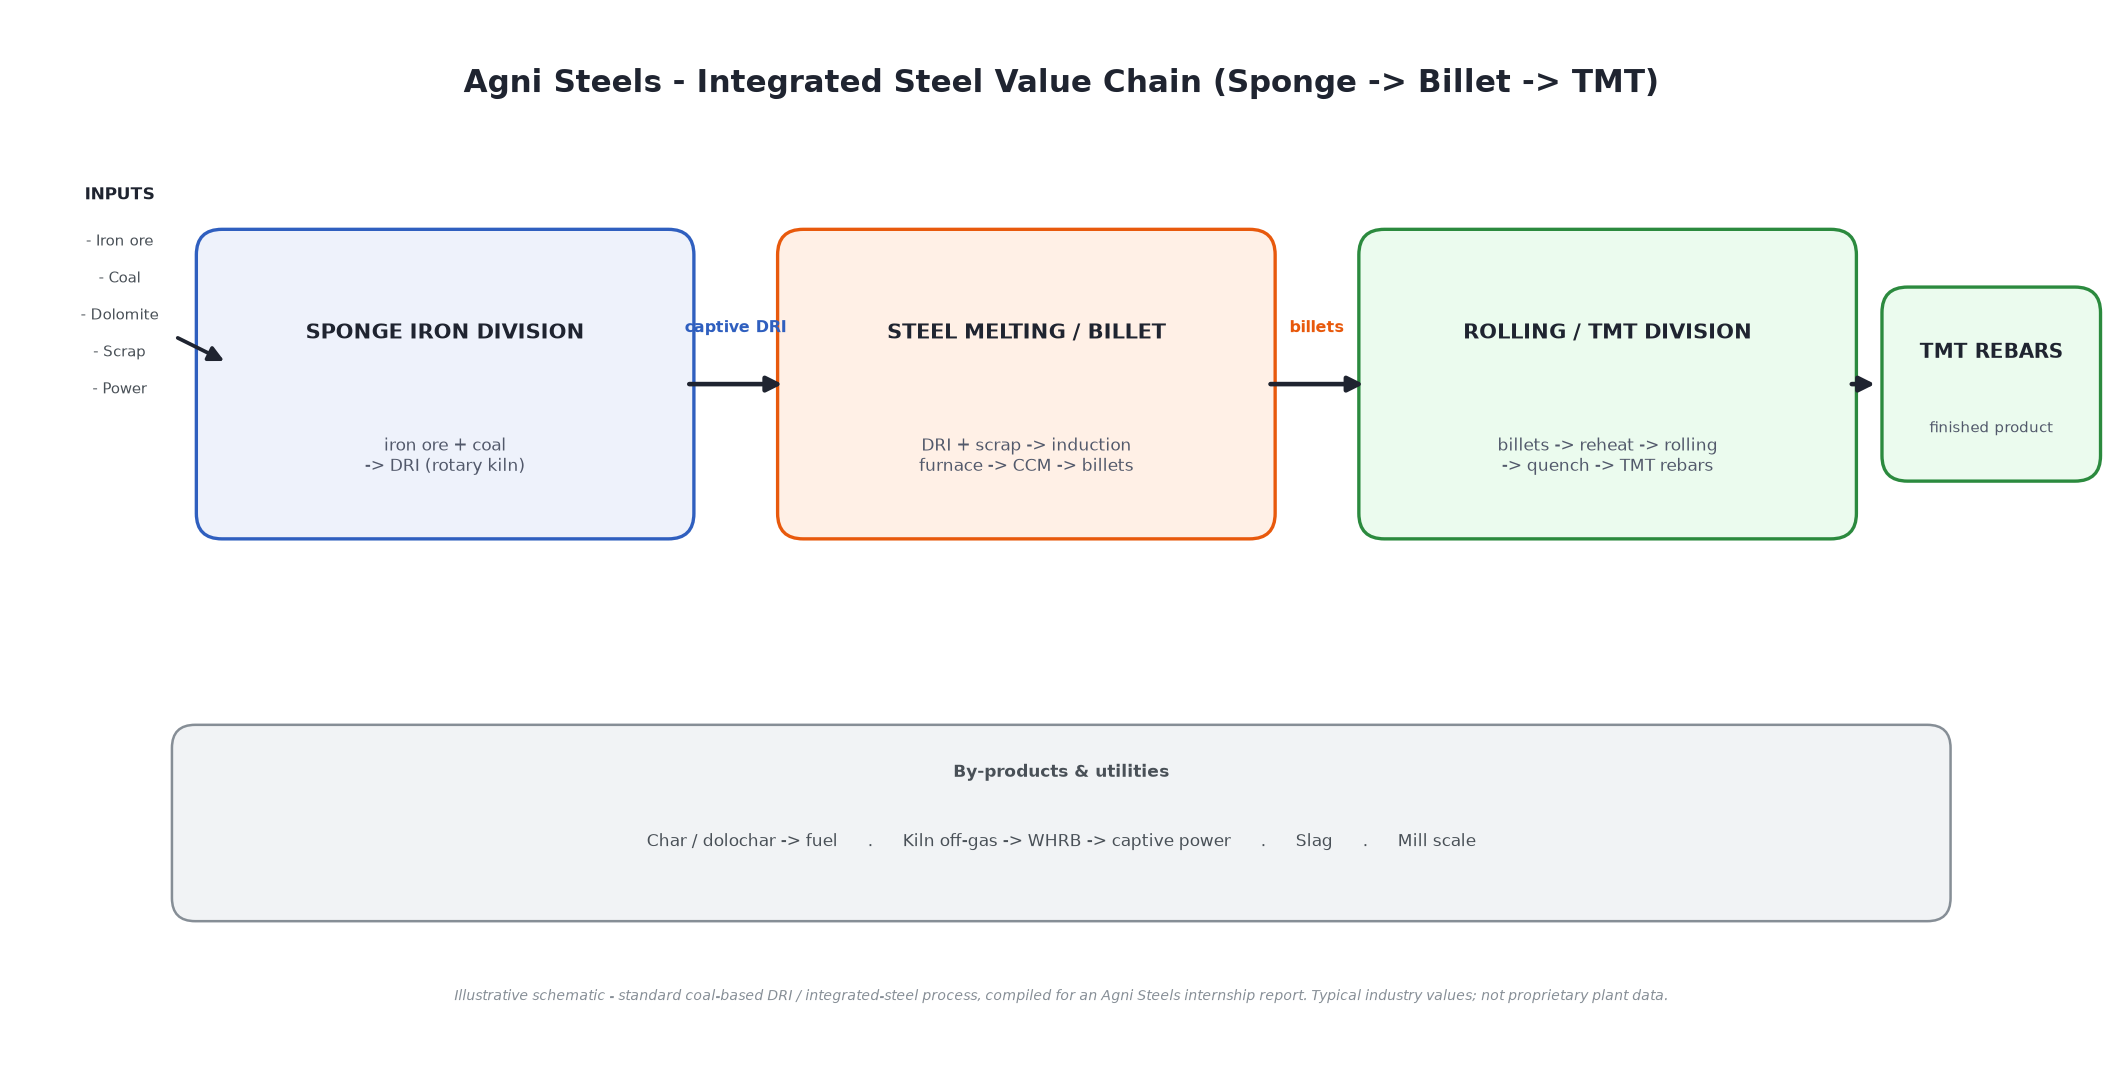
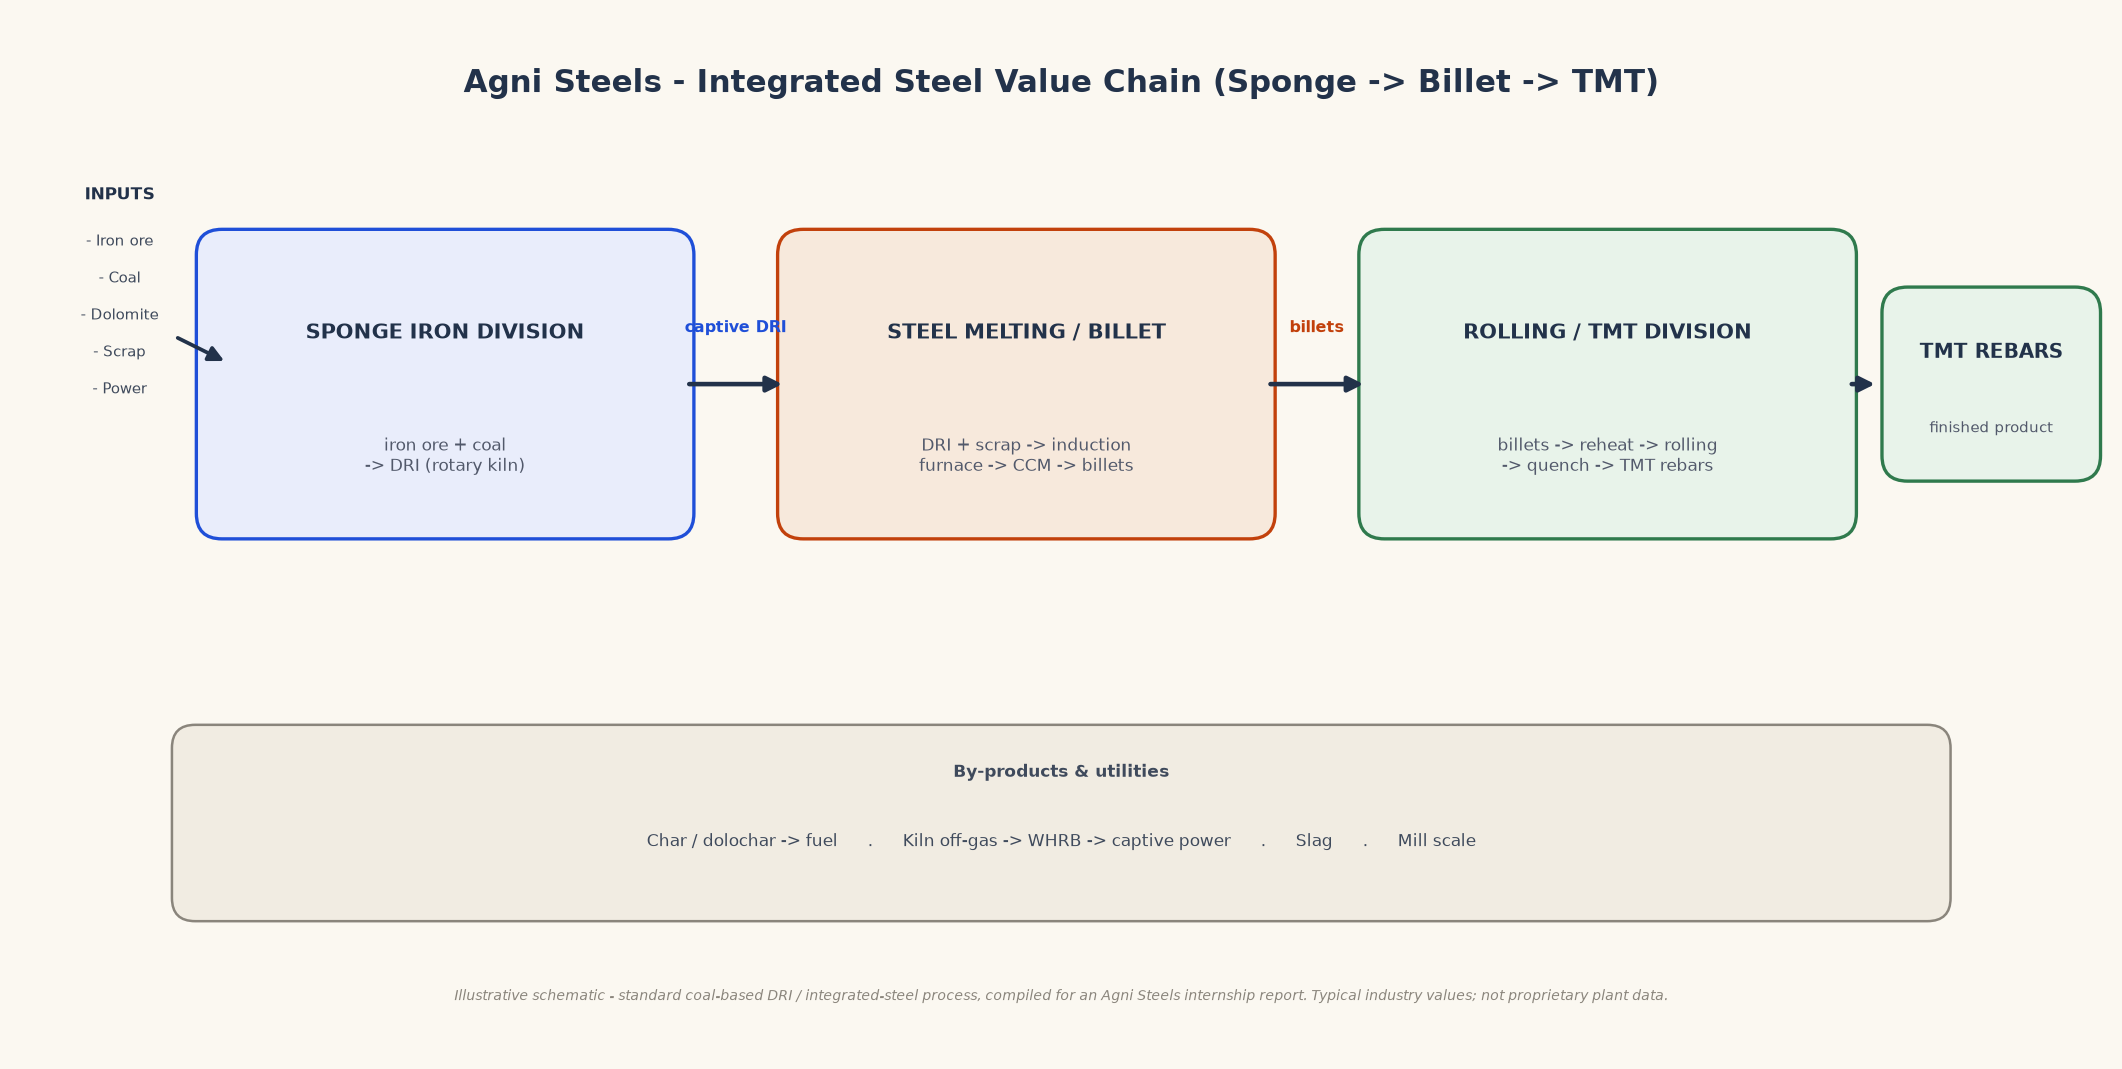
Agni pages: full-width legible diagrams, branded styling, more stills
- project-03: move the rotary-kiln schematic and integrated value-chain
  diagrams out of the half-width grid to full-width so their labels are
  readable; keep the photos (pellets, conveyor, kiln aerial) in a grid.
  Swap the dark conveyor still for a clearer cropped one; add a rotary-
  kiln aerial and the plant-layout diagram.
- project-14: enlarge the Sponge process map to full-width and add the
  cropped conveyor still.
- Diagrams restyled to the Daybook-v3 palette (butter + ultramarine) so
  they blend into the page cards instead of sitting in white boxes.
- figures/: branded sponge process map, integrated flow, kiln schematic;
  new plant-layout diagram and rotary-kiln aerial; cropped conveyor still.

Diagrams are illustrative schematics; stills are real Agni Sponge-video
footage. Sponge division only.

diff --git a/project-03.html b/project-03.html
@@ -139,26 +139,37 @@
       <p class="section-desc" style="margin-bottom: var(--space-xl)">Process-map diagrams I prepared for the report (illustrative schematics), alongside stills from Agni Steels' own process videos and a photo of the finished product.</p>
 
       <figure style="margin:0 0 var(--space-xl); background:var(--color-paper-2,#fbfaf6); border:1px solid rgba(0,0,0,.08); border-radius:14px; padding:18px">
-        <img src="figures/agni_sponge_process_map.png" alt="Sponge Iron division process map" loading="lazy" style="display:block; width:100%; height:auto; border-radius:6px" />
+        <img src="figures/agni_sponge_process_map.png" alt="Sponge Iron division process map" style="display:block; width:100%; height:auto; border-radius:6px" />
         <figcaption style="font-family:var(--font-mono); font-size:var(--text-sm); color:var(--color-ink-3); margin-top:12px">Process map of the Sponge Iron (DRI) division — raw materials → rotary kiln → cooler → magnetic separation → sponge iron, with the off-gas / utilities branch. Illustrative schematic.</figcaption>
       </figure>
 
-      <div style="display:grid; grid-template-columns:repeat(auto-fit,minmax(280px,1fr)); gap:var(--space-lg)">
+      <figure style="margin:0 0 var(--space-xl); background:var(--color-paper-2,#fbfaf6); border:1px solid rgba(0,0,0,.08); border-radius:14px; padding:18px">
+        <img src="figures/agni_plant_layout.png" alt="Sponge Iron division plant layout" style="display:block; width:100%; height:auto; border-radius:6px" />
+        <figcaption style="font-family:var(--font-mono); font-size:var(--text-sm); color:var(--color-ink-3); margin-top:12px">Schematic plant layout of the Sponge Iron division — raw-material yard → kiln → cooler → product storage, with the off-gas / APC branch and control room. Illustrative.</figcaption>
+      </figure>
+
+      <figure style="margin:0 0 var(--space-xl); background:var(--color-paper-2,#fbfaf6); border:1px solid rgba(0,0,0,.08); border-radius:14px; padding:18px">
+        <img src="figures/agni_kiln_schematic.png" alt="Rotary kiln longitudinal schematic" style="display:block; width:100%; height:auto; border-radius:6px" />
+        <figcaption style="font-family:var(--font-mono); font-size:var(--text-sm); color:var(--color-ink-3); margin-top:12px">Rotary kiln in longitudinal section — temperature zones, counter-current gas, reduction chemistry, and the accretion-prone band. Illustrative.</figcaption>
+      </figure>
+
+      <figure style="margin:0 0 var(--space-xl); background:var(--color-paper-2,#fbfaf6); border:1px solid rgba(0,0,0,.08); border-radius:14px; padding:18px">
+        <img src="figures/agni_integrated_plant_flow.png" alt="Integrated steel value chain" style="display:block; width:100%; height:auto; border-radius:6px" />
+        <figcaption style="font-family:var(--font-mono); font-size:var(--text-sm); color:var(--color-ink-3); margin-top:12px">Integrated value chain — Sponge (DRI) → Billet → TMT. The sponge unit feeds the captive steel-melting and rolling lines. Illustrative.</figcaption>
+      </figure>
+
+      <div style="display:grid; grid-template-columns:repeat(auto-fit,minmax(240px,1fr)); gap:var(--space-lg)">
         <figure style="margin:0; background:var(--color-paper-2,#fbfaf6); border:1px solid rgba(0,0,0,.08); border-radius:14px; padding:16px">
-          <img src="figures/agni_kiln_schematic.png" alt="Rotary kiln longitudinal schematic" loading="lazy" style="display:block; width:100%; height:auto; border-radius:6px" />
-          <figcaption style="font-family:var(--font-mono); font-size:var(--text-sm); color:var(--color-ink-3); margin-top:10px">Rotary kiln in longitudinal section — temperature zones, counter-current gas, reduction chemistry, and the accretion-prone band. Illustrative.</figcaption>
-        </figure>
-        <figure style="margin:0; background:var(--color-paper-2,#fbfaf6); border:1px solid rgba(0,0,0,.08); border-radius:14px; padding:16px">
-          <img src="figures/agni_integrated_plant_flow.png" alt="Integrated steel value chain" loading="lazy" style="display:block; width:100%; height:auto; border-radius:6px" />
-          <figcaption style="font-family:var(--font-mono); font-size:var(--text-sm); color:var(--color-ink-3); margin-top:10px">Integrated value chain — Sponge (DRI) → Billet → TMT. The sponge unit feeds the captive steel-melting and rolling lines. Illustrative.</figcaption>
-        </figure>
-        <figure style="margin:0; background:var(--color-paper-2,#fbfaf6); border:1px solid rgba(0,0,0,.08); border-radius:14px; padding:16px">
-          <img src="figures/agni_dri_pellets.png" alt="Sponge iron / DRI pellets" loading="lazy" style="display:block; width:100%; height:auto; border-radius:6px" />
+          <img src="figures/agni_dri_pellets.png" alt="Sponge iron / DRI pellets" style="display:block; width:100%; height:auto; border-radius:6px" />
           <figcaption style="font-family:var(--font-mono); font-size:var(--text-sm); color:var(--color-ink-3); margin-top:10px">The product — coal-based sponge iron (DRI) pellets.</figcaption>
         </figure>
         <figure style="margin:0; background:var(--color-paper-2,#fbfaf6); border:1px solid rgba(0,0,0,.08); border-radius:14px; padding:16px">
-          <img src="figures/agni_sponge_plant.jpg" alt="Inside the Agni Steels sponge iron plant" loading="lazy" style="display:block; width:100%; height:auto; border-radius:6px" />
-          <figcaption style="font-family:var(--font-mono); font-size:var(--text-sm); color:var(--color-ink-3); margin-top:10px">Inside the sponge iron unit. Still from an Agni Steels process video.</figcaption>
+          <img src="figures/agni_sponge_plant.jpg" alt="Sponge iron on the material-handling conveyor at Agni Steels" style="display:block; width:100%; height:auto; border-radius:6px" />
+          <figcaption style="font-family:var(--font-mono); font-size:var(--text-sm); color:var(--color-ink-3); margin-top:10px">Sponge iron (DRI) on the material-handling conveyor. Still from an Agni Steels process video.</figcaption>
+        </figure>
+        <figure style="margin:0; background:var(--color-paper-2,#fbfaf6); border:1px solid rgba(0,0,0,.08); border-radius:14px; padding:16px">
+          <img src="figures/agni_kiln_aerial.jpg" alt="Aerial view of the rotary kiln and plant at Agni Steels" style="display:block; width:100%; height:auto; border-radius:6px" />
+          <figcaption style="font-family:var(--font-mono); font-size:var(--text-sm); color:var(--color-ink-3); margin-top:10px">Aerial view of the rotary kiln and the sponge iron plant. Still from an Agni Steels process video.</figcaption>
         </figure>
       </div>
     </div>

diff --git a/project-14.html b/project-14.html
@@ -173,14 +173,19 @@
         step everything else is built to protect — too hot, and ring-forming accretion follows.</div>
       </div>
 
-      <div style="display:grid; grid-template-columns:repeat(auto-fit,minmax(260px,1fr)); gap:var(--space-lg); margin-top:var(--space-xl)">
+      <figure style="margin:var(--space-xl) 0 0; background:var(--color-paper-2,#fbfaf6); border:1px solid rgba(0,0,0,.08); border-radius:14px; padding:18px">
+        <img src="figures/agni_sponge_process_map.png" alt="Sponge Iron division process map" style="display:block; width:100%; height:auto; border-radius:6px" />
+        <figcaption style="font-family:var(--font-mono); font-size:var(--text-sm); color:var(--color-ink-3); margin-top:12px">Process map of the Sponge Iron (DRI) division — raw materials → rotary kiln → cooler → magnetic separation → sponge iron. Illustrative schematic.</figcaption>
+      </figure>
+
+      <div style="display:grid; grid-template-columns:repeat(auto-fit,minmax(260px,1fr)); gap:var(--space-lg); margin-top:var(--space-lg)">
         <figure style="margin:0; background:var(--color-paper-2,#fbfaf6); border:1px solid rgba(0,0,0,.08); border-radius:14px; padding:16px">
-          <img src="figures/agni_sponge_process_map.png" alt="Sponge Iron division process map" loading="lazy" style="display:block; width:100%; height:auto; border-radius:6px" />
-          <figcaption style="font-family:var(--font-mono); font-size:var(--text-sm); color:var(--color-ink-3); margin-top:10px">Process map of the Sponge Iron (DRI) division. Illustrative schematic.</figcaption>
+          <img src="figures/agni_dri_pellets.png" alt="Sponge iron / DRI pellets" style="display:block; width:100%; height:auto; border-radius:6px" />
+          <figcaption style="font-family:var(--font-mono); font-size:var(--text-sm); color:var(--color-ink-3); margin-top:10px">The product — coal-based sponge iron (DRI) pellets.</figcaption>
         </figure>
         <figure style="margin:0; background:var(--color-paper-2,#fbfaf6); border:1px solid rgba(0,0,0,.08); border-radius:14px; padding:16px">
-          <img src="figures/agni_dri_pellets.png" alt="Sponge iron / DRI pellets" loading="lazy" style="display:block; width:100%; height:auto; border-radius:6px" />
-          <figcaption style="font-family:var(--font-mono); font-size:var(--text-sm); color:var(--color-ink-3); margin-top:10px">The product — coal-based sponge iron (DRI) pellets.</figcaption>
+          <img src="figures/agni_sponge_plant.jpg" alt="Sponge iron on the material-handling conveyor at Agni Steels" style="display:block; width:100%; height:auto; border-radius:6px" />
+          <figcaption style="font-family:var(--font-mono); font-size:var(--text-sm); color:var(--color-ink-3); margin-top:10px">Sponge iron (DRI) on the material-handling conveyor. Still from an Agni Steels process video.</figcaption>
         </figure>
       </div>
     </div>
